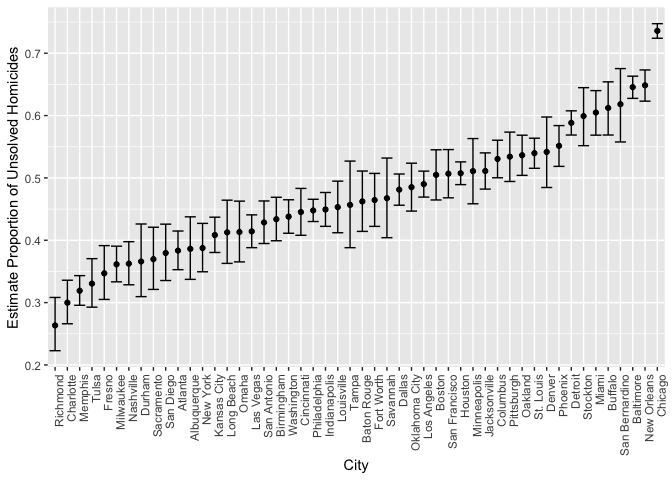
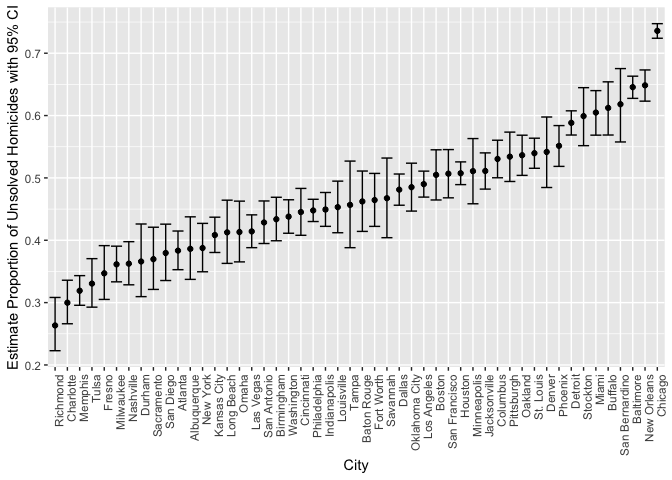
edit

Changed region(s): [[0.0, 0.0, 0.0312, 0.7812]]

diff --git a/p8105_hw5_yw3236.md b/p8105_hw5_yw3236.md
@@ -49,7 +49,24 @@ format_merged_data = mergeddata %>%
   select(-filenames) %>%
   gather(key = week, value = obs, week_1:week_8) %>%
   select(id, arm, week, obs) #tidy dataset
+
+format_merged_data
 ```
+
+    ## # A tibble: 160 x 4
+    ##       id arm    week     obs
+    ##    <dbl> <chr>  <chr>  <dbl>
+    ##  1     1 " con" week_1  0.2 
+    ##  2     2 " con" week_1  1.13
+    ##  3     3 " con" week_1  1.77
+    ##  4     4 " con" week_1  1.04
+    ##  5     5 " con" week_1  0.47
+    ##  6     6 " con" week_1  2.37
+    ##  7     7 " con" week_1  0.03
+    ##  8     8 " con" week_1 -0.08
+    ##  9     9 " con" week_1  0.08
+    ## 10    10 " con" week_1  2.14
+    ## # ... with 150 more rows
 
 ``` r
 format_merged_data %>%
@@ -57,6 +74,7 @@ format_merged_data %>%
   ggplot() +
   geom_line(aes(x = week, y = obs, group = id, color = id)) +
   facet_grid(~arm) +  #compare two groups: con and exp
+  theme(axis.text.x = element_text(angle = 90, hjust = 1, size = rel(1))) +
   labs(x = "Week", y = "Observations")
 ```
 
@@ -64,10 +82,16 @@ format_merged_data %>%
 
 ### Comment
 
+-   Observation values of experiment group are higher than the observation values of control group over time.
+
+-   Experimental group has increasing trending, but control group stays relatively flat over time.
+
 Problem 2
 =========
 
 ### Describe Data
+
+The variables `city`, `state`, and `disposition` in the raw dataset are important to analyze this problem. It also has location variables, such as `lat` and `lon`. Futhermore, the dataset includes victims' information. The dataset size is 52,179 \* 12.
 
 ``` r
 homicides_data = read_csv("https://raw.githubusercontent.com/washingtonpost/data-homicides/master/homicide-data.csv")
@@ -96,7 +120,24 @@ summarised_homicides_data = homicides_data %>%
   group_by(city) %>%
   summarise(total_homicides = n(), unsolved_homicides = sum(disposition_index)) %>%  #summarize total homicides and unsolved homicides
   mutate(total_homicides = as.double(total_homicides))
+
+summarised_homicides_data
 ```
+
+    ## # A tibble: 50 x 3
+    ##    city        total_homicides unsolved_homicides
+    ##    <chr>                 <dbl>              <dbl>
+    ##  1 Albuquerque             378                146
+    ##  2 Atlanta                 973                373
+    ##  3 Baltimore              2827               1825
+    ##  4 Baton Rouge             424                196
+    ##  5 Birmingham              800                347
+    ##  6 Boston                  614                310
+    ##  7 Buffalo                 521                319
+    ##  8 Charlotte               687                206
+    ##  9 Chicago                5535               4073
+    ## 10 Cincinnati              694                309
+    ## # ... with 40 more rows
 
 ``` r
 baltimore_unsolved_homicides = summarised_homicides_data %>%
@@ -128,7 +169,24 @@ prop_test = function(city_data){
 
 ``` r
 multicity_test = prop_test(summarised_homicides_data)
+
+multicity_test
 ```
+
+    ## # A tibble: 50 x 4
+    ##    city        estimate conf.low conf.high
+    ##    <chr>          <dbl>    <dbl>     <dbl>
+    ##  1 Albuquerque    0.386    0.337     0.438
+    ##  2 Atlanta        0.383    0.353     0.415
+    ##  3 Baltimore      0.646    0.628     0.663
+    ##  4 Baton Rouge    0.462    0.414     0.511
+    ##  5 Birmingham     0.434    0.399     0.469
+    ##  6 Boston         0.505    0.465     0.545
+    ##  7 Buffalo        0.612    0.569     0.654
+    ##  8 Charlotte      0.300    0.266     0.336
+    ##  9 Chicago        0.736    0.724     0.747
+    ## 10 Cincinnati     0.445    0.408     0.483
+    ## # ... with 40 more rows
 
 ``` r
 multicity_test %>%
@@ -136,9 +194,7 @@ multicity_test %>%
   geom_point(aes(x = reorder(city, estimate), y = estimate)) +  #order cities by the value of estimates
   geom_errorbar(aes(x = reorder(city, estimate), ymin = conf.low, ymax = conf.high, estimate)) +  #add error bar
   theme(axis.text.x = element_text(angle = 90, hjust = 1, size = rel(1))) +
-  labs(x = "City", y = "Estimate Proportion of Unsolved Homicides")
+  labs(x = "City", y = "Estimate Proportion of Unsolved Homicides with 95% CI")
 ```
-
-    ## Warning: Ignoring unknown aesthetics: y
 
 ![](p8105_hw5_yw3236_files/figure-markdown_github/unnamed-chunk-12-1.png)
